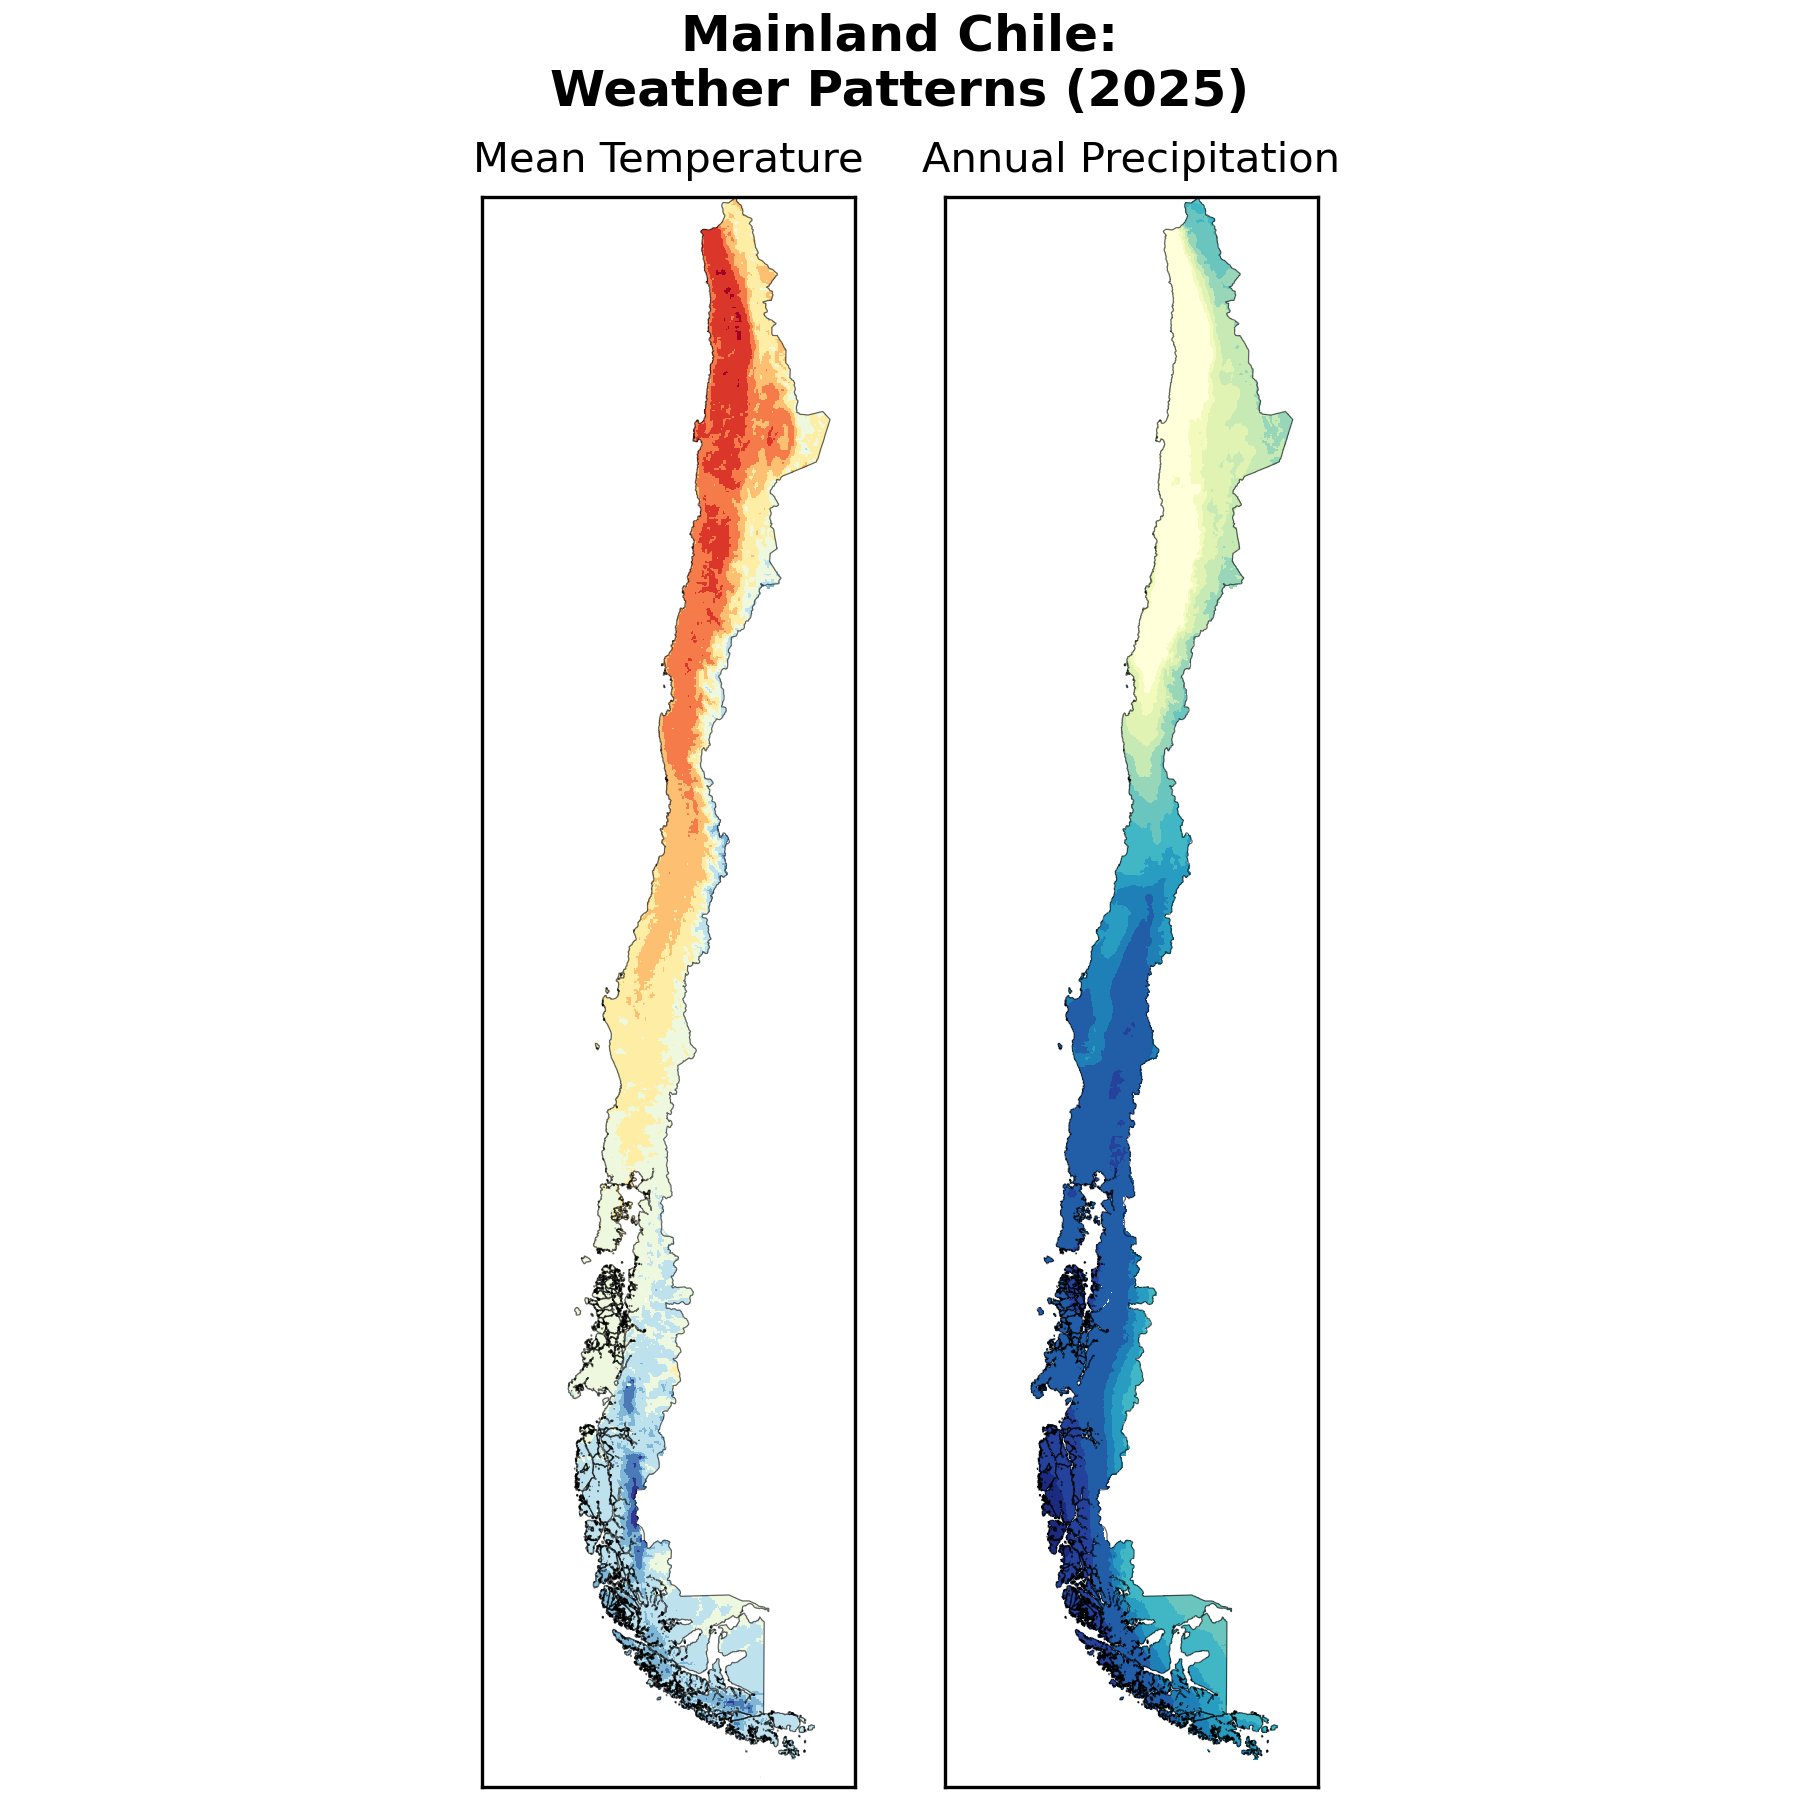
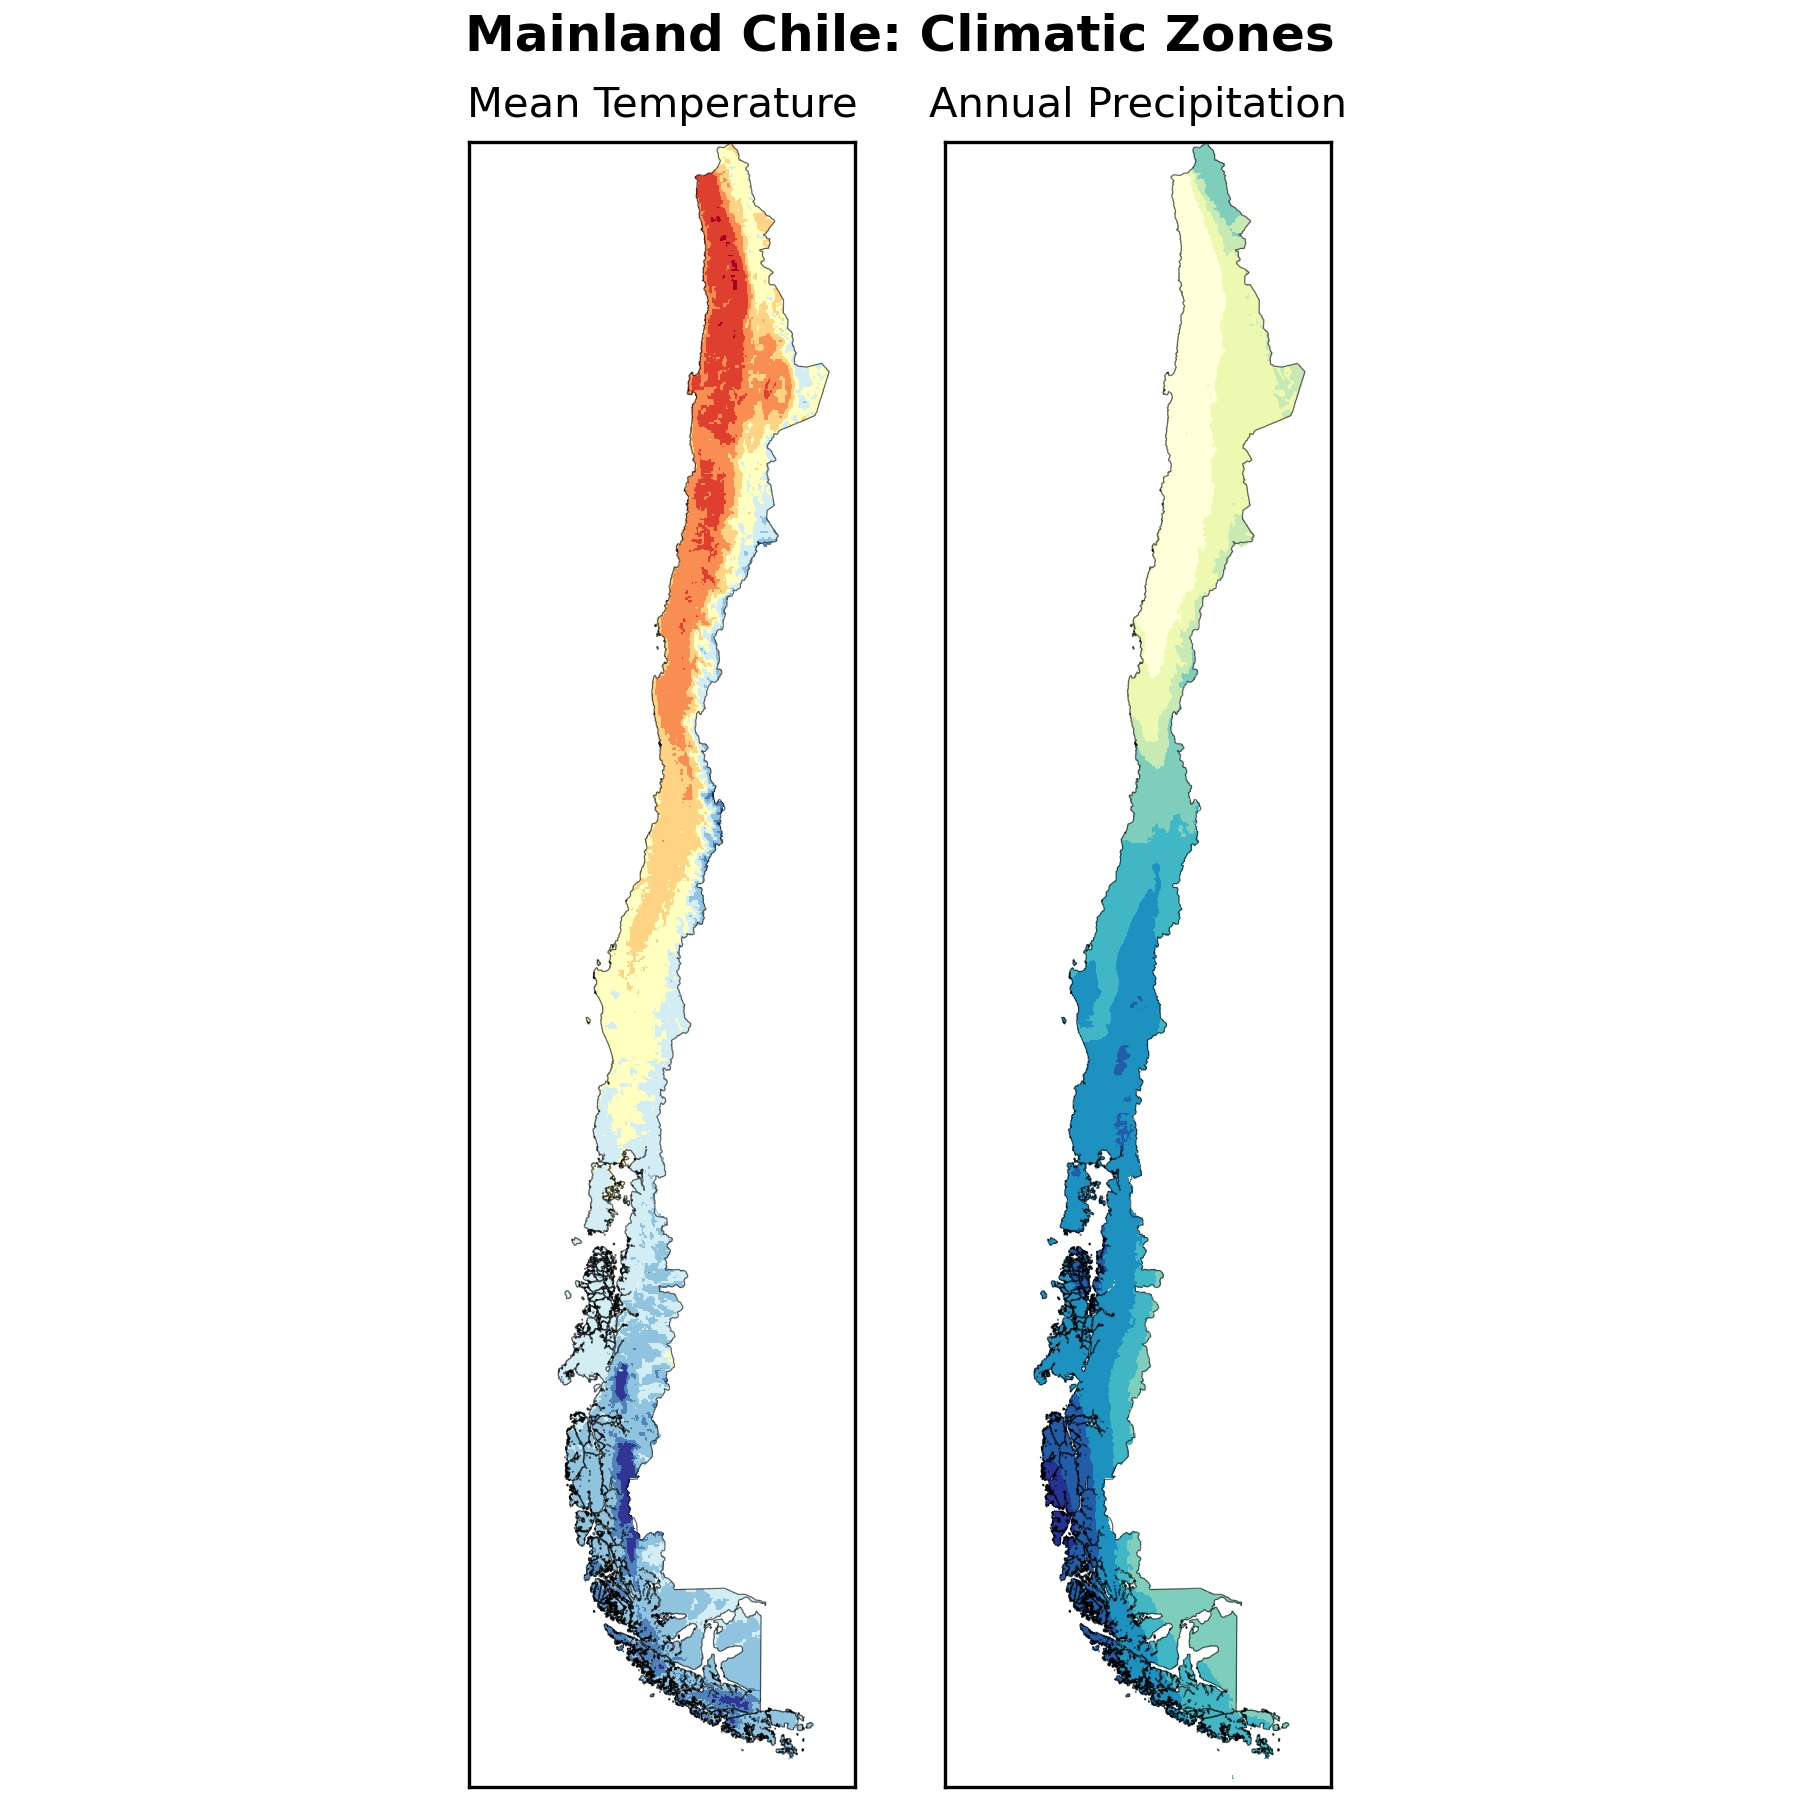
doc: Update examples and gallery assets

Changed region(s): [[0.2489, 0.0, 0.7467, 0.9956]]

diff --git a/examples/large_rasters/02-chile_climate_dask.py b/examples/large_rasters/02-chile_climate_dask.py
@@ -1,5 +1,5 @@
 """
-Working with Large Rasters, Example 2: Chile (Weather Data).
+Working with Large Rasters, Example 2: Chile (Climatic Profile).
 
 Illustrates:
 1. Explicit, manual pre-clipping of large country rasters when the AoI
@@ -42,7 +42,7 @@ CHL_MAINLAND_BOX = (-76, -57, -66, -16)
 
 YEAR = 2023
 ZERO_C_IN_KELVIN = 273.15
-UTM_19S = "EPSG:32719"  # Chile is located in UTM Zone 19S
+CHILE_CRS = "EPSG:20049"  # SIRGAS-Chile 2021 / UTM zone 19S
 
 
 def get_processed_chile_data(product_name):
@@ -60,6 +60,11 @@ def get_processed_chile_data(product_name):
         chunks='auto',  # Enable Dask -> Lazy load the pre-clipped data
     )
 
+    # --- Clean Units ---
+    if 'temp' in product_name:
+        # Kelvin -> Celsius
+        da = da - ZERO_C_IN_KELVIN
+
     # --- Define Coarsened Data (Lazy) ---
     # We "pre-coarsen" the raster data before warping it
     # to further reduce the memory footprint.
@@ -73,9 +78,9 @@ def get_processed_chile_data(product_name):
     # Now that downsampled data is in memory, warping is fast.
     da_warped = wp_warp(
         da_coarse,
-        to_crs=UTM_19S,
+        to_crs=CHILE_CRS,
         res=2_000,          # 2km target resolution
-        resampling='mean',  # Average the weather data
+        resampling='mean',  # Average the weather/distance data
     )
     return da_warped
 
@@ -87,12 +92,13 @@ def make_plot():
     Returns a matplotlib Figure object.
     """
 
-    # --- Setup ---
-    product_names = ["temp_mean_g2", "precip_mean_g2"]
-    ax_titles = ['Mean Temperature', 'Annual Precipitation']
-
-    # Generate custom colormaps and norms
-    cmap_args = (get_temp_cmap(), get_rain_cmap())
+    # --- Configuration ---
+    # We create a list of configs to iterate over.
+    # Format: (Product Name, Plot Title, Year, Colormap_Func)
+    plot_configs = [
+        ("temp_mean_g2", f"Mean Temperature", get_temp_cmap),
+        ("precip_mean_g2", f"Annual Precipitation", get_rain_cmap),
+    ]
 
     # --- Dask Client Setup ---
     # We explicitly start a Dask Client so we can *manually* control the
@@ -103,21 +109,16 @@ def make_plot():
     with Client(n_workers=n_workers, threads_per_worker=1) as client:
         print(f"Dask Dashboard active at: {client.dashboard_link}")
 
-        # --- Get Weather Data ---
-        weather_rasters = []
-        for pname in product_names:
-            print(f"Fetching and processing data for '{pname}'...")
+        # --- Get Processed Data ---
+        rasters = []
+        for pname, title, _ in plot_configs:
+            print(f"Fetching and processing '{pname}' ...")
             raster = get_processed_chile_data(pname)
-
-            # Convert Kelvin to Celsius for the temperature raster
-            if 'temp' in pname:
-                raster -= ZERO_C_IN_KELVIN
-
-            weather_rasters.append(raster)
+            rasters.append(raster)
 
     # --- Plot Side-by-Side: Temperature & Precipitation ---
     # Make a standard canvas for the "repo gallery".
-    fig, axarr = plt.subplots(1, 2, figsize=(6, 6), layout='compressed')
+    fig, axarr = plt.subplots(1, len(rasters), figsize=(6, 6), layout='compressed')
 
     # 1. Adjust vertical padding
     # Since `subplots_adjust` does not work with the 'compressed'
@@ -125,21 +126,22 @@ def make_plot():
     fig.get_layout_engine().set(wspace=0.1)
 
     # 2. Set the "super" title
-    fig.suptitle('Mainland Chile:\nWeather Patterns (2025)', fontsize=12, fontweight='bold')
+    fig.suptitle(f'Mainland Chile: Climatic Zones', fontsize=12, fontweight='bold')
 
-    zipped = zip(axarr, weather_rasters, ax_titles, cmap_args)
-    for ax, raster, title, (cmap, cnorm) in zipped:
+    zipped = zip(axarr, rasters, plot_configs)
+    for ax, raster, (pname, title, cmap_gen) in zipped:
         # A. Plot the Weather Raster
         # We disable the colorbar only to save space in the repo gallery
+        cmap, norm = cmap_gen()
         raster.plot(
             ax=ax,
             cmap=cmap,
-            norm=cnorm,
-            add_colorbar=False
-        )
+            norm=norm,
+            add_colorbar=False)
+
 
         # B. Add country borders & clean up
-        plot_country_borders('CHL', ax, UTM_19S, linewidth=0.3, edgecolor='black', alpha=0.6)
+        plot_country_borders('CHL', ax, CHILE_CRS, linewidth=0.3, edgecolor='black', alpha=0.6)
         clean_axes(title=title, ax=ax, fontsize=10)
 
     return fig
@@ -148,23 +150,16 @@ def make_plot():
 # --- Colormap Utilities ---
 
 def get_rain_cmap():
-    # Discrete intervals suitable for Chile's extreme range
-    levels = [0, 5, 10, 25, 50, 100, 250, 500, 750, 1000, 2000, 4000, 6000]
-
-    # We need exactly len(levels) colours because extend='max' adds one extra bin
+    # Blue/Green for rain
+    levels = [0, 10, 50, 100, 500, 1000, 2000, 4000, 6000]
     cmap = plt.get_cmap('YlGnBu', len(levels))
-
     norm = mcolors.BoundaryNorm(levels, ncolors=cmap.N, extend='max')
     return cmap, norm
 
-
 def get_temp_cmap():
-    # 5-degree intervals covering the full climatic range
-    levels = [-10, -5, 0, 5, 10, 15, 20, 25, 30]
-
-    # We need (len(levels) + 1) colours because extend='both' adds TWO extra bins
+    # Red/Blue for temperature
+    levels = [-5, 0, 5, 10, 15, 20, 25, 30]
     cmap = plt.get_cmap('RdYlBu_r', len(levels) + 1)
-
     norm = mcolors.BoundaryNorm(levels, ncolors=cmap.N, extend='both')
     return cmap, norm
 

diff --git a/scripts/build_gallery.py b/scripts/build_gallery.py
@@ -13,7 +13,7 @@ GALLERY_MAP = {
     "examples/quickstart/03_korea_lights.py":             ("gallery/quick03_korea.png",         "regular"),
     "examples/quickstart/04_west_africa_growth.py":       ("gallery/quick04_west_africa.png",   "regular"),
     "examples/large_rasters/01_kamchatka_topo_eager.py":  ("gallery/large01_kamchatka.png",     "regular"),
-    "examples/large_rasters/02-chile_weather_dask.py":    ("gallery/large02_chile_dask.png",    "regular")
+    "examples/large_rasters/02-chile_climate_dask.py":    ("gallery/large02_chile_dask.png",    "regular")
 }
 
 

diff --git a/examples/quickstart/02_sihanoukville_lights.py b/examples/quickstart/02_sihanoukville_lights.py
@@ -14,10 +14,10 @@ from worldpoppy import wp_raster, bbox_from_location, clean_axes
 ntl_data = wp_raster(
     product_name="ntl_viirs_g2",  # Night lights from "Global 2" series
     aoi=bbox_from_location("Preah Sihanouk", width_km=100),
-    years=[2015, 2023],
+    years=['first', 'last'],
 )
 
-# Plot 2015 vs 2023 (Log-scale)
+# Plot Both Years Side-by-Side (Log-scale)
 # We use Xarray's built-in plotting to create a facet grid by year.
 p = (ntl_data + 1).plot(
     col="year",
